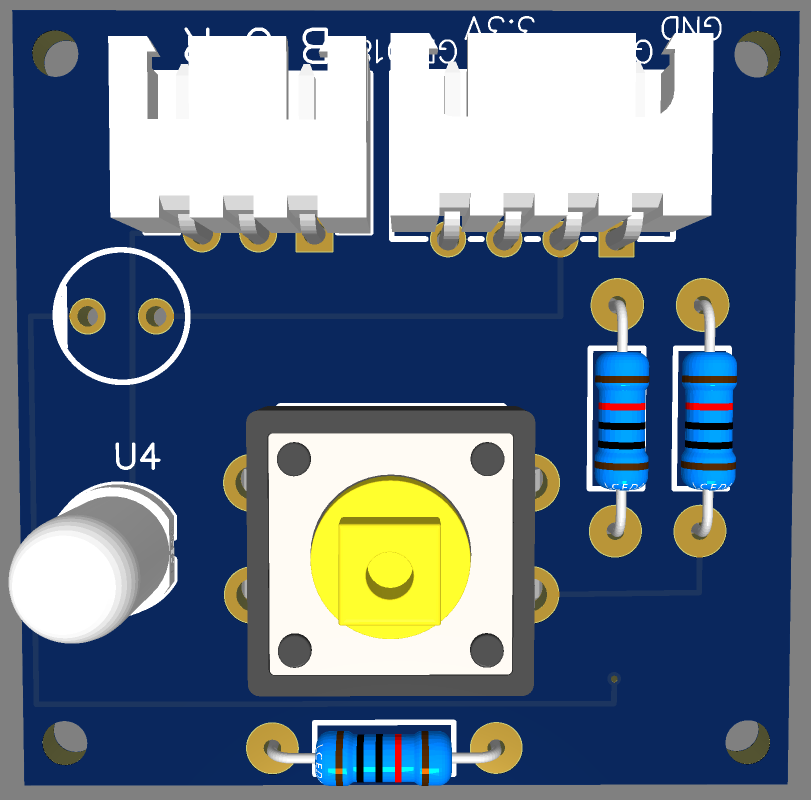
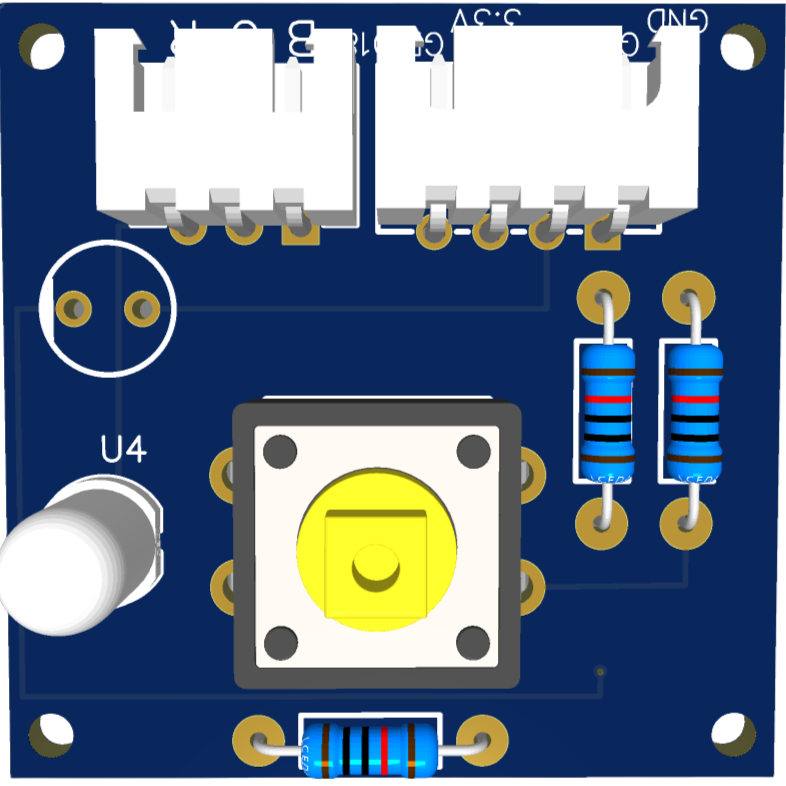
1

Changed region(s): [[0.0, 0.0, 1.0, 1.0], [0.5496, 0.7328, 0.5802, 0.7634], [0.3359, 0.4885, 0.3664, 0.5191]]

diff --git a/schemes/Vehicle_Chassis_Design/README.md b/schemes/Vehicle_Chassis_Design/README.md
@@ -46,6 +46,7 @@
    <ol>
     <li>Jetson Nano的運算效率不足，導致有時會太晚看到障礙物。</li>
     <li>自駕車轉彎時角度不夠，導致有些急轉彎無法轉過去。</li>
+    <li>只依靠超聲波距離感測器無法</li>
 
    <ol>
   </td>
@@ -69,9 +70,10 @@
   <td>
     我們在底盤的設計上經歷了三次改版
     <ol>
-      <li>第一次改版加入了弧形導角，避免自駕車前輪胎接觸邊牆導致卡住</li>
-      <li>第二次改版我們將放置轉降向節的孔洞擴大，改為放置軸承減小摩擦力，讓轉彎更加順滑</li>
-      <li>第三次改版我們將轉向結構與直流馬達支架之間的空閒區塊縮小，從而減短軸距讓轉彎角度更大</li>
+      <li>第一次改版我們在車頭加入弧形導角，避免前輪接觸邊牆時發生卡住的情況。</li>
+      <li>第二版我們加大轉向節放置孔，改用軸承降低摩擦，使轉彎更順暢。</li>
+      <li>第三版我們縮小轉向結構與馬達支架間的空隙，減短軸距以提升轉彎角度。</li>
+      <li>第四版我們在車頭延伸出小長方區塊，用來保護紅外線感測器避免撞牆損壞。</li>
     </ol>
   </td>
   </tr>
@@ -90,7 +92,7 @@
         <td><img src="./img/steering 1.jpg" width=500 /></td>
         <td width=400>
           描述：<br>&emsp;&emsp;
-          這個版本的轉向結構過於寬大，因此我們在第二版轉向結構中將版型縮小，提升自駕車的靈活度。
+          這版轉向結構過於寬大，因此第二版中我們縮小版型，以提升自駕車的靈活度。
         </td>
       </tr>
       <tr>
@@ -100,7 +102,7 @@
         <td><img src="./img/steering 2.png" width=500 /></td>
         <td width=400>
           描述：<br>&emsp;&emsp;
-          這個版本因為使用樂高元件進行連接使轉向的角度被限制住，因此我們在第三版中修改不同元件間的連接方式。
+          此版本因使用螺絲與樂高零件連接，轉向角度受限，因此下一版將改用圓頭十字軸與圓頭舵盤以增加轉向範圍。
         </td>
       </tr>
       <tr>
@@ -110,7 +112,7 @@
         <td><img src="./img/steering 3.jpg" width=500 /></td>
         <td width=400>
           描述：<br>&emsp;&emsp;
-          這個版本的轉向結構中，力矩的設計有誤，因此我們修改了拉桿和連桿之間的位置，我們在連桿上新增了極限以防轉向結構轉過頭的問題。
+          這一版因轉向力矩出現問題，我們重新檢視設計圖。下一版將把轉向拉桿與連桿連接位置調整至與圓頭舵盤平行，並增加轉向極限擋塊，避免角度過大導致結構內凹。
         </td>
       </tr>
       <tr>
@@ -120,7 +122,7 @@
         <td><img src="./img/steering 4.jpg" width=500 /></td>
         <td width=400>
           描述：<br>&emsp;&emsp;
-          這個版本的轉向極限設置太大，所以我們修改極限擋塊的大小以提升轉向的最大角度。
+          這一版因轉向極限擋塊過大，限制了轉向角度，降低了自駕車靈活性。因此在下一版中，我們會縮短極限擋塊，以兼顧轉向幅度與結構保護。
         </td>
       </tr>
       <tr>
@@ -130,7 +132,7 @@
         <td><img src="./img/steering 5.jpg" width=500 /></td>
         <td width=400>
           描述：<br>&emsp;&emsp;
-          經過前幾代轉向結構的問題修正，現在的轉向結構已經符合我們機型的需求。
+          經過前幾代轉向結構的修正與優化，目前的轉向結構已能滿足我們機型的需求。
         </td>
       </tr>
     </table>

diff --git a/models/Vehicle_2D_3D/README.md b/models/Vehicle_2D_3D/README.md
@@ -1,7 +1,7 @@
 <div align="center"><img src="../../other/img/logo.png" width="300" alt=" logo"></div>
 
 ## <div align="center">3D Vehicle Model Design -3D車輛模型設計</div>
-- 根據去年的經驗，我們將自駕車的長度由原本的21公分縮短至17公分，不僅大幅提升了停車的靈活性，也讓車輛能更自如地穿梭於狹小空間中。為更有效應對當前的競賽任務，我們對自駕車的設計與結構進行了全面調整與優化，顯著提升了整體性能與運行穩定性。
+- 根據去年的經驗，我們將自駕車的長度由原本的21公分延長至23公分，不僅大幅提升了停車的靈活性，也讓車輛能更自如地穿梭於狹小空間中。為更有效應對當前的競賽任務，我們對自駕車的設計與結構進行了全面調整與優化，顯著提升了整體性能與運行穩定性。
 
 - 本次比賽所使用的車輛底盤是我們自行研發的內部設計。接下來將介紹車輛底盤的設計與製作過程。
 
